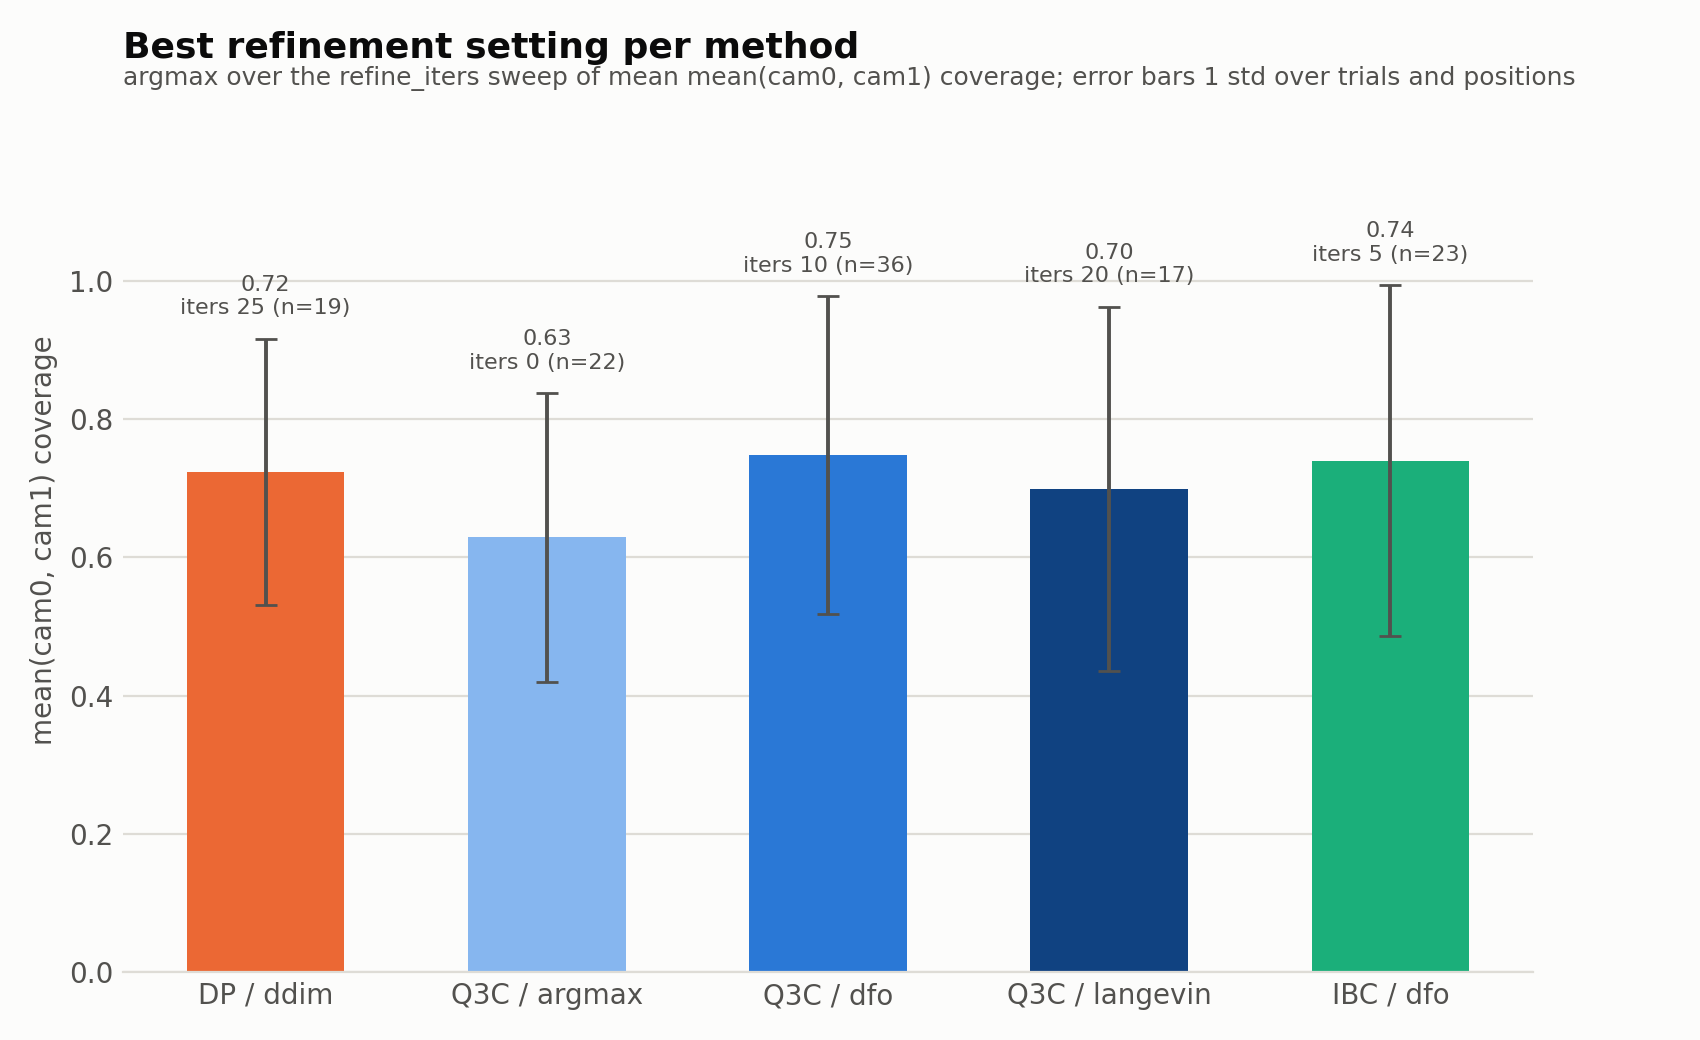
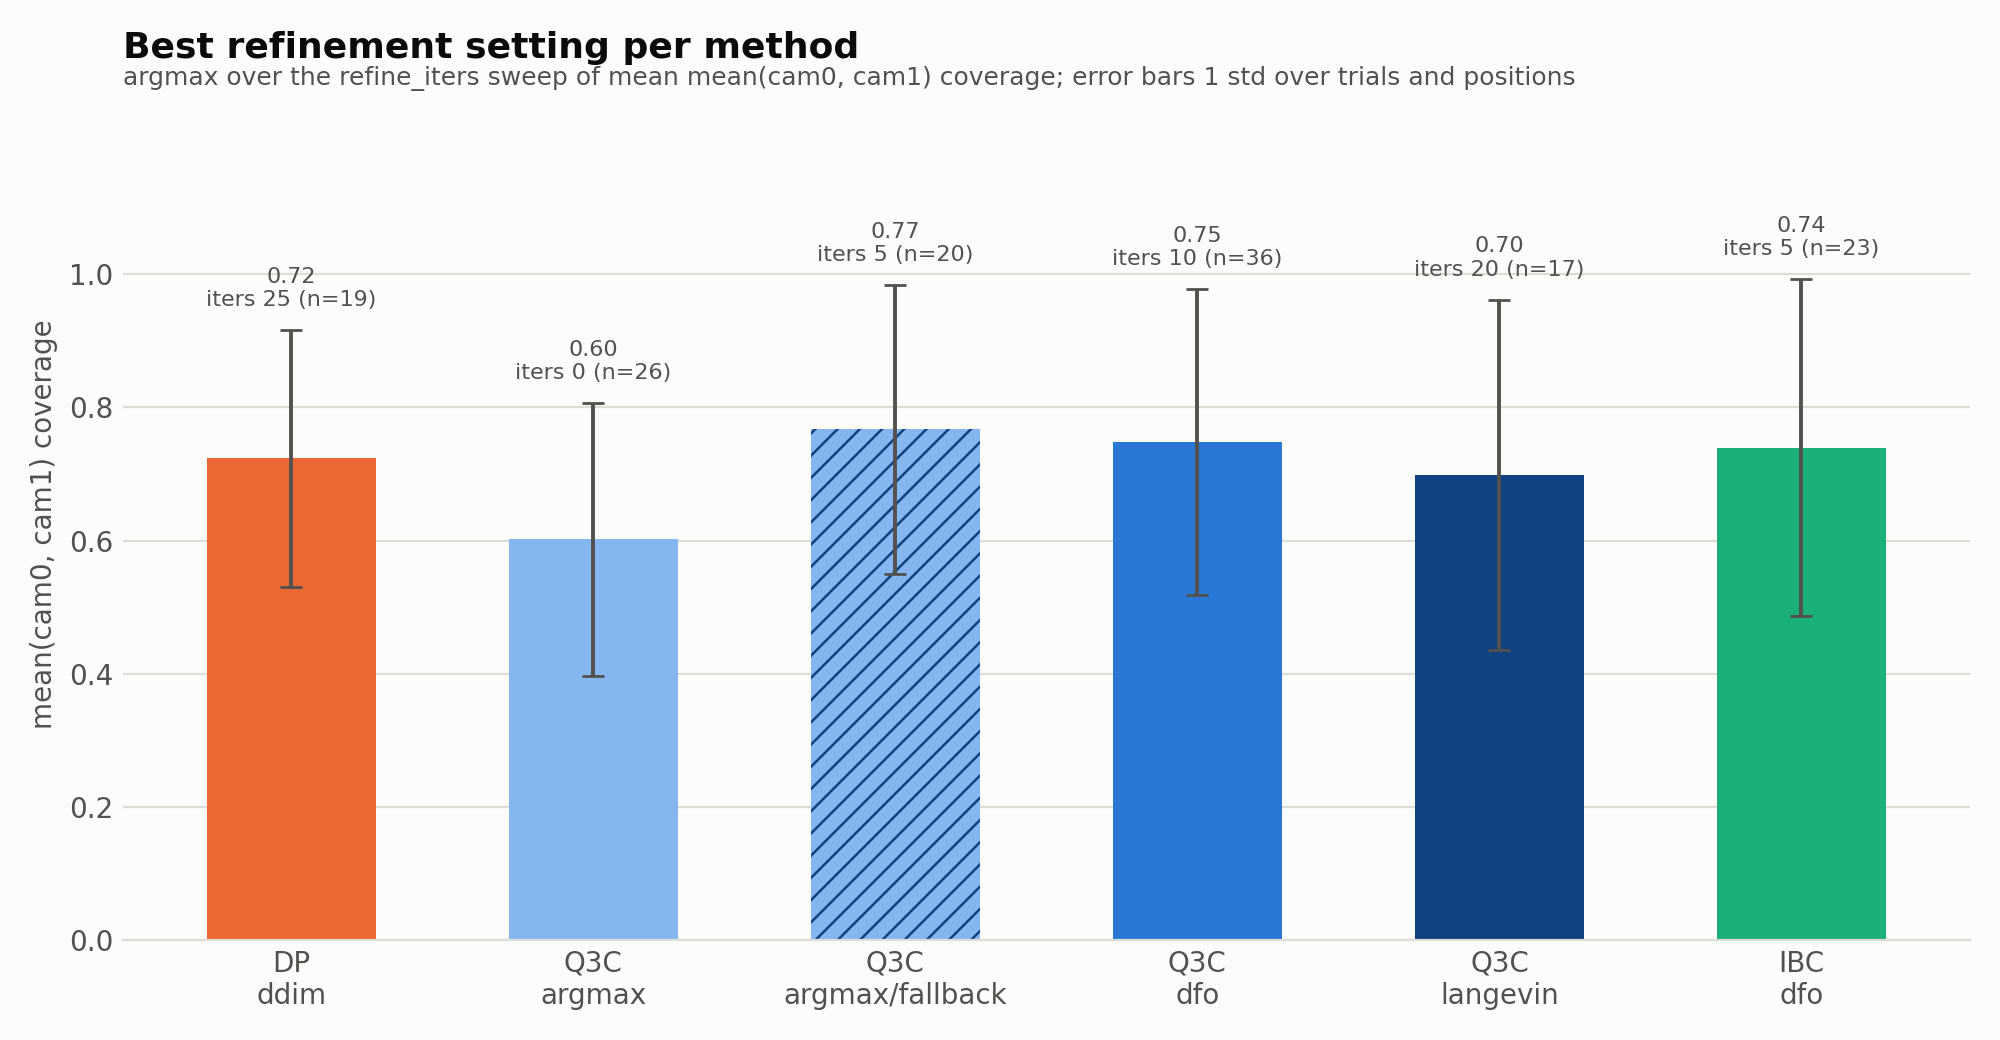
added argmax stall dfo solution

diff --git a/scripts/plot_pusht_experiments.py b/scripts/plot_pusht_experiments.py
@@ -31,6 +31,9 @@ import matplotlib
 
 matplotlib.use("Agg")
 import matplotlib.pyplot as plt
+
+matplotlib.rcParams["hatch.linewidth"] = 0.9
+
 import numpy as np
 
 ROOT = Path(__file__).resolve().parents[1]
@@ -52,11 +55,24 @@ SERIES_COLORS = {
     ("dp", "ddim"): "#eb6834",  # orange, mid
     ("dp", "ddpm"): "#c94908",  # orange, dark
     ("q3c", "argmax"): "#86b6ef",  # blue 250
+    ("q3c", "argmax_fallback"): "#86b6ef",  # blue 250 + hatch
     ("q3c", "dfo"): "#2a78d6",  # blue 450
     ("q3c", "langevin"): "#104281",  # blue 650
     ("ibc", "dfo"): "#1baf7a",  # aqua, mid
     ("ibc", "langevin"): "#00582b",  # aqua, dark
 }
+
+# argmax and its DFO-fallback variant share a step and separate by texture. A
+# fourth blue step is not available: the ramp's usable range cannot hold four
+# steps that all clear the normal-vision floor while the light end still clears
+# 2:1 on the surface (widest 4-step spread measures dE 9.8, against a floor of
+# 15). Texture is the documented channel for exactly this case, and it carries
+# the meaning better anyway - fallback is a variant of argmax, not a peer.
+SERIES_HATCH = {("q3c", "argmax_fallback"): "///"}
+HATCH_EDGE = "#104281"
+
+# Inference labels that differ from the raw CSV value.
+INFERENCE_LABEL = {"argmax_fallback": "argmax/fallback"}
 
 SURFACE = "#fcfcfb"
 TEXT_PRIMARY = "#0b0b0b"
@@ -70,6 +86,7 @@ SERIES_ORDER = [
     ("dp", "ddim"),
     ("dp", "ddpm"),
     ("q3c", "argmax"),
+    ("q3c", "argmax_fallback"),
     ("q3c", "dfo"),
     ("q3c", "langevin"),
     ("ibc", "dfo"),
@@ -104,7 +121,7 @@ POSITION_ORDER = [
 
 
 def series_label(alg: str, inf: str) -> str:
-    return f"{alg.upper()} / {inf}"
+    return f"{alg.upper()} · {INFERENCE_LABEL.get(inf, inf)}"
 
 
 def load_rows() -> list[dict]:
@@ -116,6 +133,11 @@ def load_rows() -> list[dict]:
         r["min_cov"] = min(r["cam0"], r["cam1"])
         r["avg_cov"] = 0.5 * (r["cam0"] + r["cam1"])
         r["dist"] = float(r["dist_centroid"])
+        # Q3C argmax runs with refinement iterations are the DFO-fallback
+        # variant (argmax, with DFO taking over when the argmax action stalls),
+        # so they get their own series rather than being averaged into argmax.
+        if (r["algorithm"], r["inference"]) == ("q3c", "argmax") and int(r["refine_iters"]) > 0:
+            r["inference"] = "argmax_fallback"
     return rows
 
 
@@ -237,6 +259,9 @@ def grouped_plot(
             width=bar_w * 0.88,  # 2px-equivalent surface gap between adjacent bars
             color=series_color((alg, inf)),
             label=series_label(alg, inf),
+            hatch=SERIES_HATCH.get((alg, inf)),
+            edgecolor=HATCH_EDGE if (alg, inf) in SERIES_HATCH else "none",
+            linewidth=0,
             zorder=2,
         )
         ax.errorbar(
@@ -340,11 +365,16 @@ def best_iters_plot(rows, stem: str, metric: str, title: str, ylabel: str) -> No
         best_iters.append(best_it)
         ns.append(len(vals))
 
-    fig, ax = plt.subplots(figsize=(8.5, 5.2), facecolor=SURFACE)
+    fig, ax = plt.subplots(figsize=(10, 5.2), facecolor=SURFACE)
     style_axes(ax)
     x = np.arange(len(labels))
 
-    ax.bar(x, means, width=0.56, color=[series_color(s) for s in series], zorder=2)
+    bars = ax.bar(x, means, width=0.56, color=[series_color(s) for s in series], zorder=2)
+    for bar, s in zip(bars, series):
+        if s in SERIES_HATCH:
+            bar.set_hatch(SERIES_HATCH[s])
+            bar.set_edgecolor(HATCH_EDGE)
+            bar.set_linewidth(0)
     ax.errorbar(
         x, means, yerr=stds, fmt="none", ecolor=TEXT_SECONDARY, elinewidth=1.4, capsize=4, zorder=3
     )
@@ -361,7 +391,7 @@ def best_iters_plot(rows, stem: str, metric: str, title: str, ylabel: str) -> No
         )
 
     ax.set_xticks(x)
-    ax.set_xticklabels(labels, color=TEXT_SECONDARY)
+    ax.set_xticklabels([lb.replace(" · ", "\n") for lb in labels], color=TEXT_SECONDARY)
     ax.set_ylabel(ylabel, color=TEXT_SECONDARY)
     ax.set_title(
         title,
